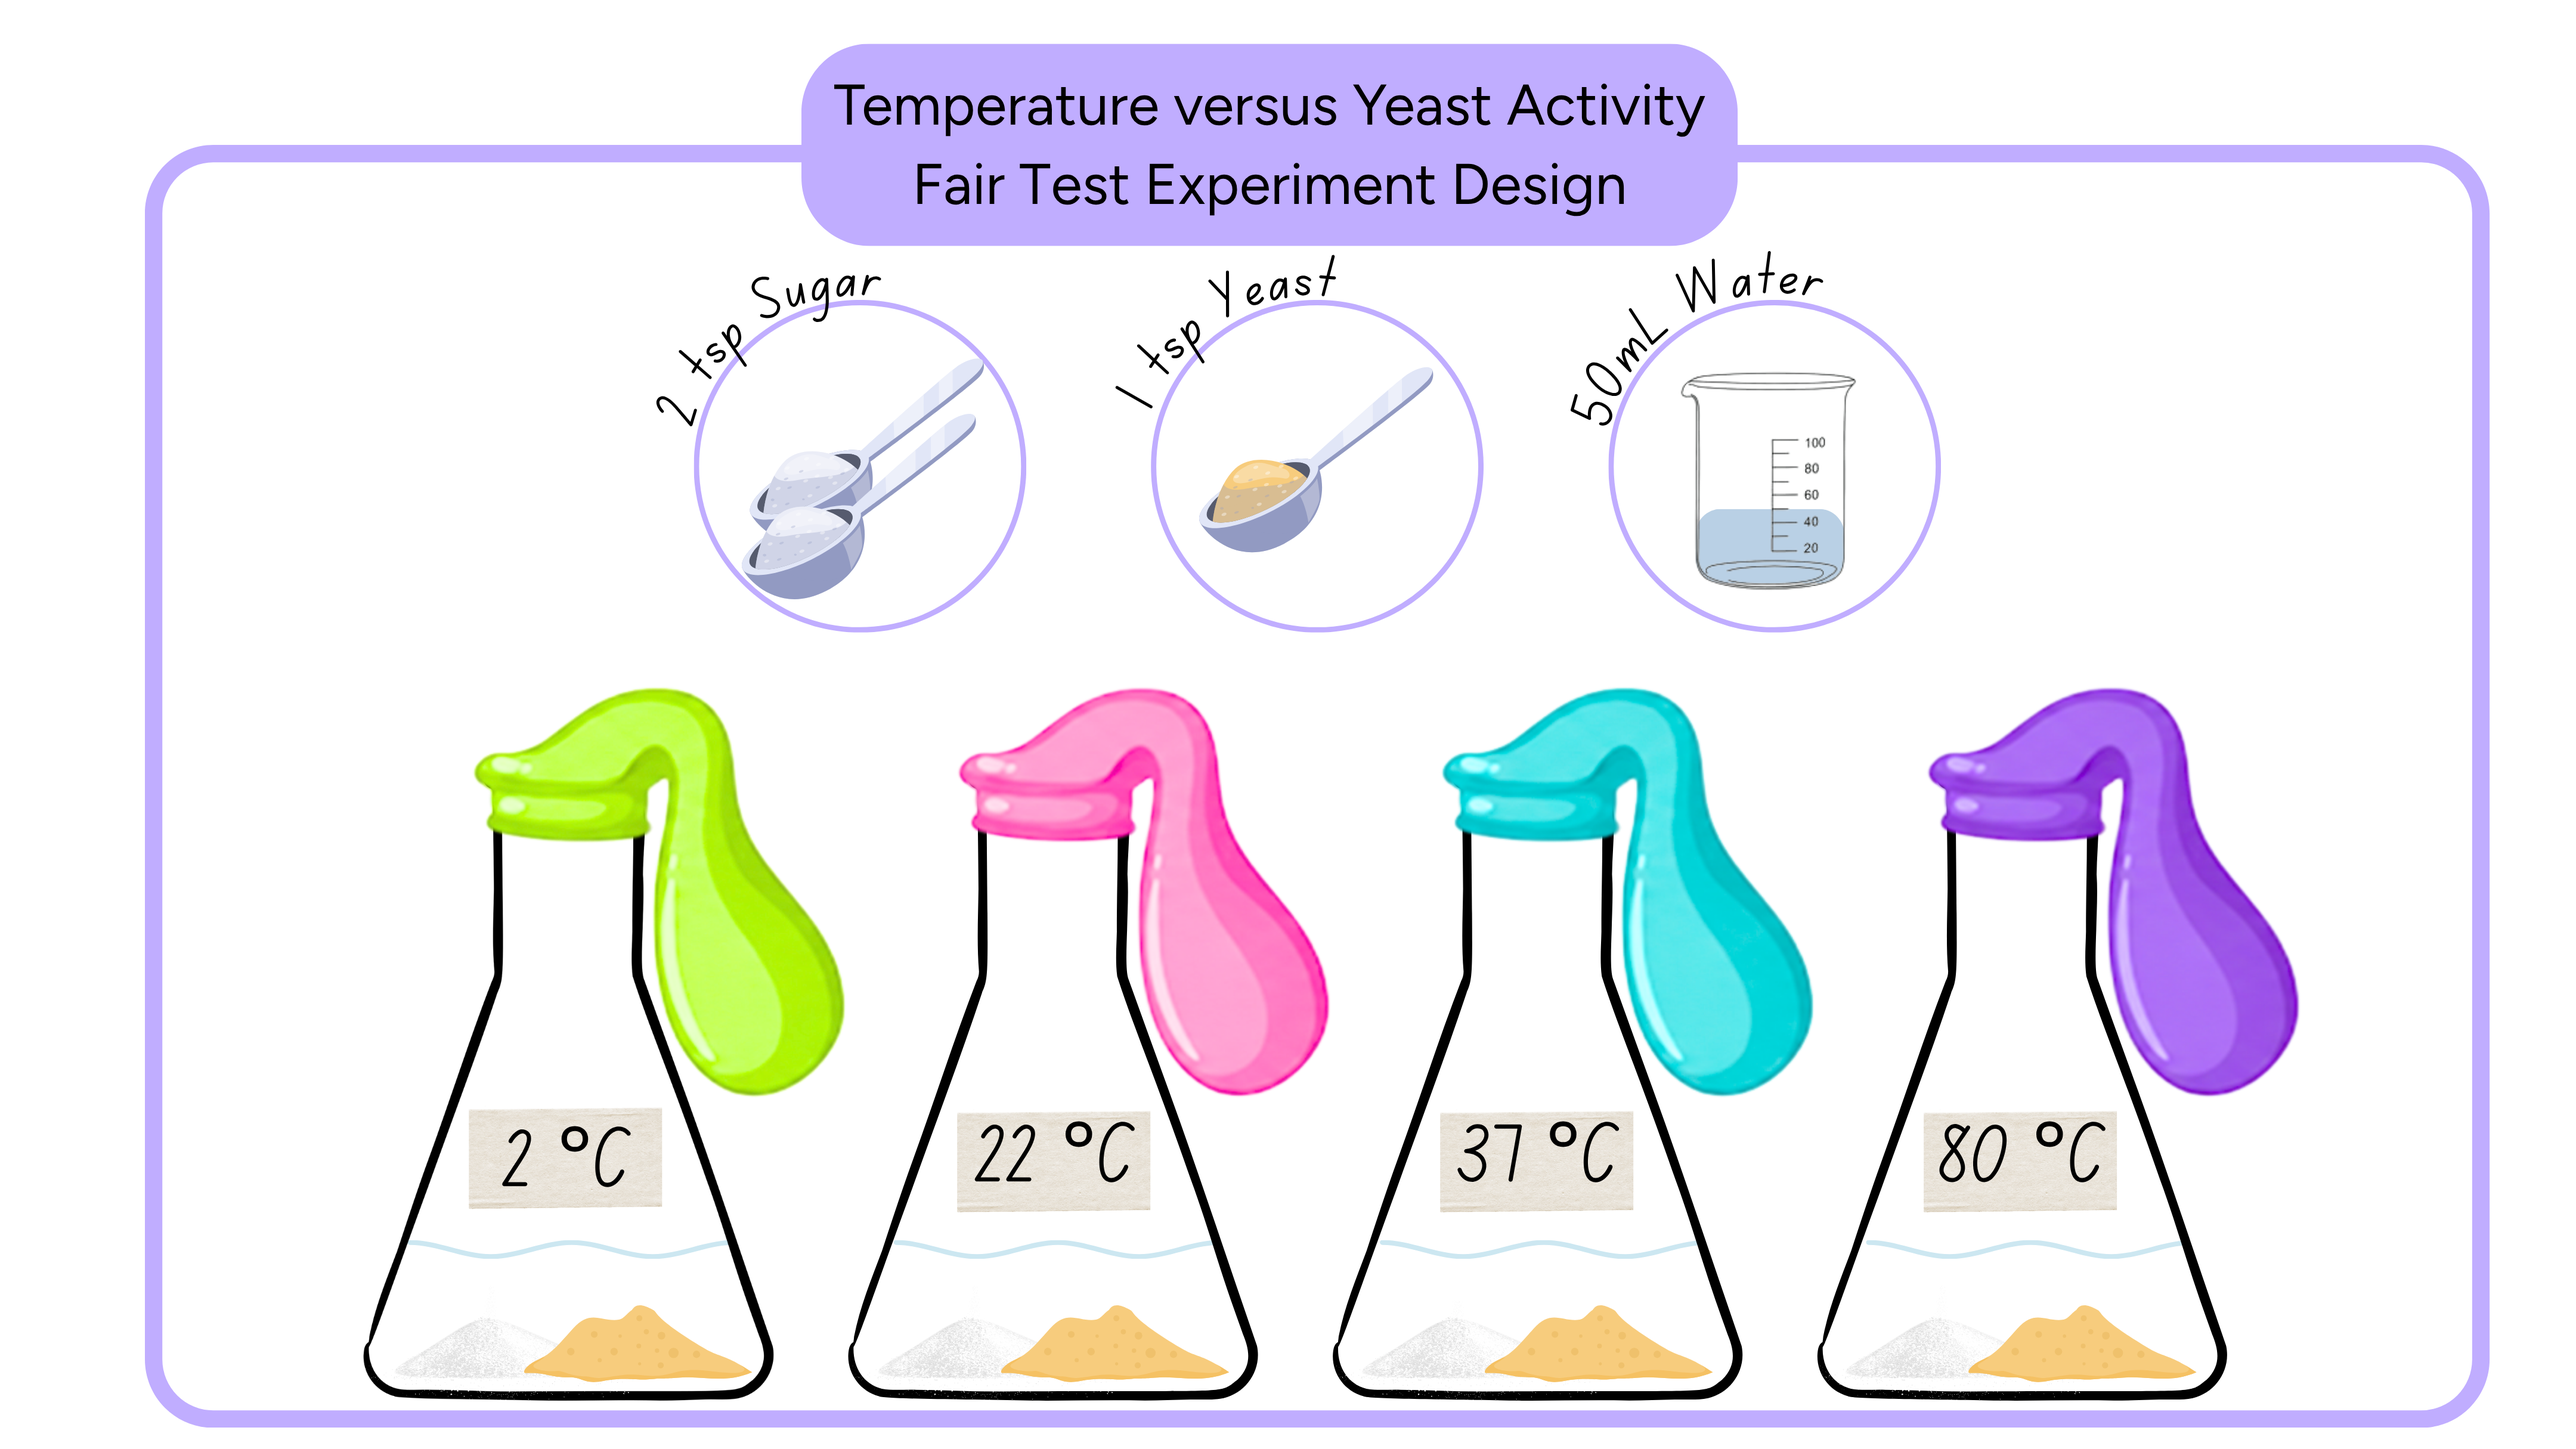
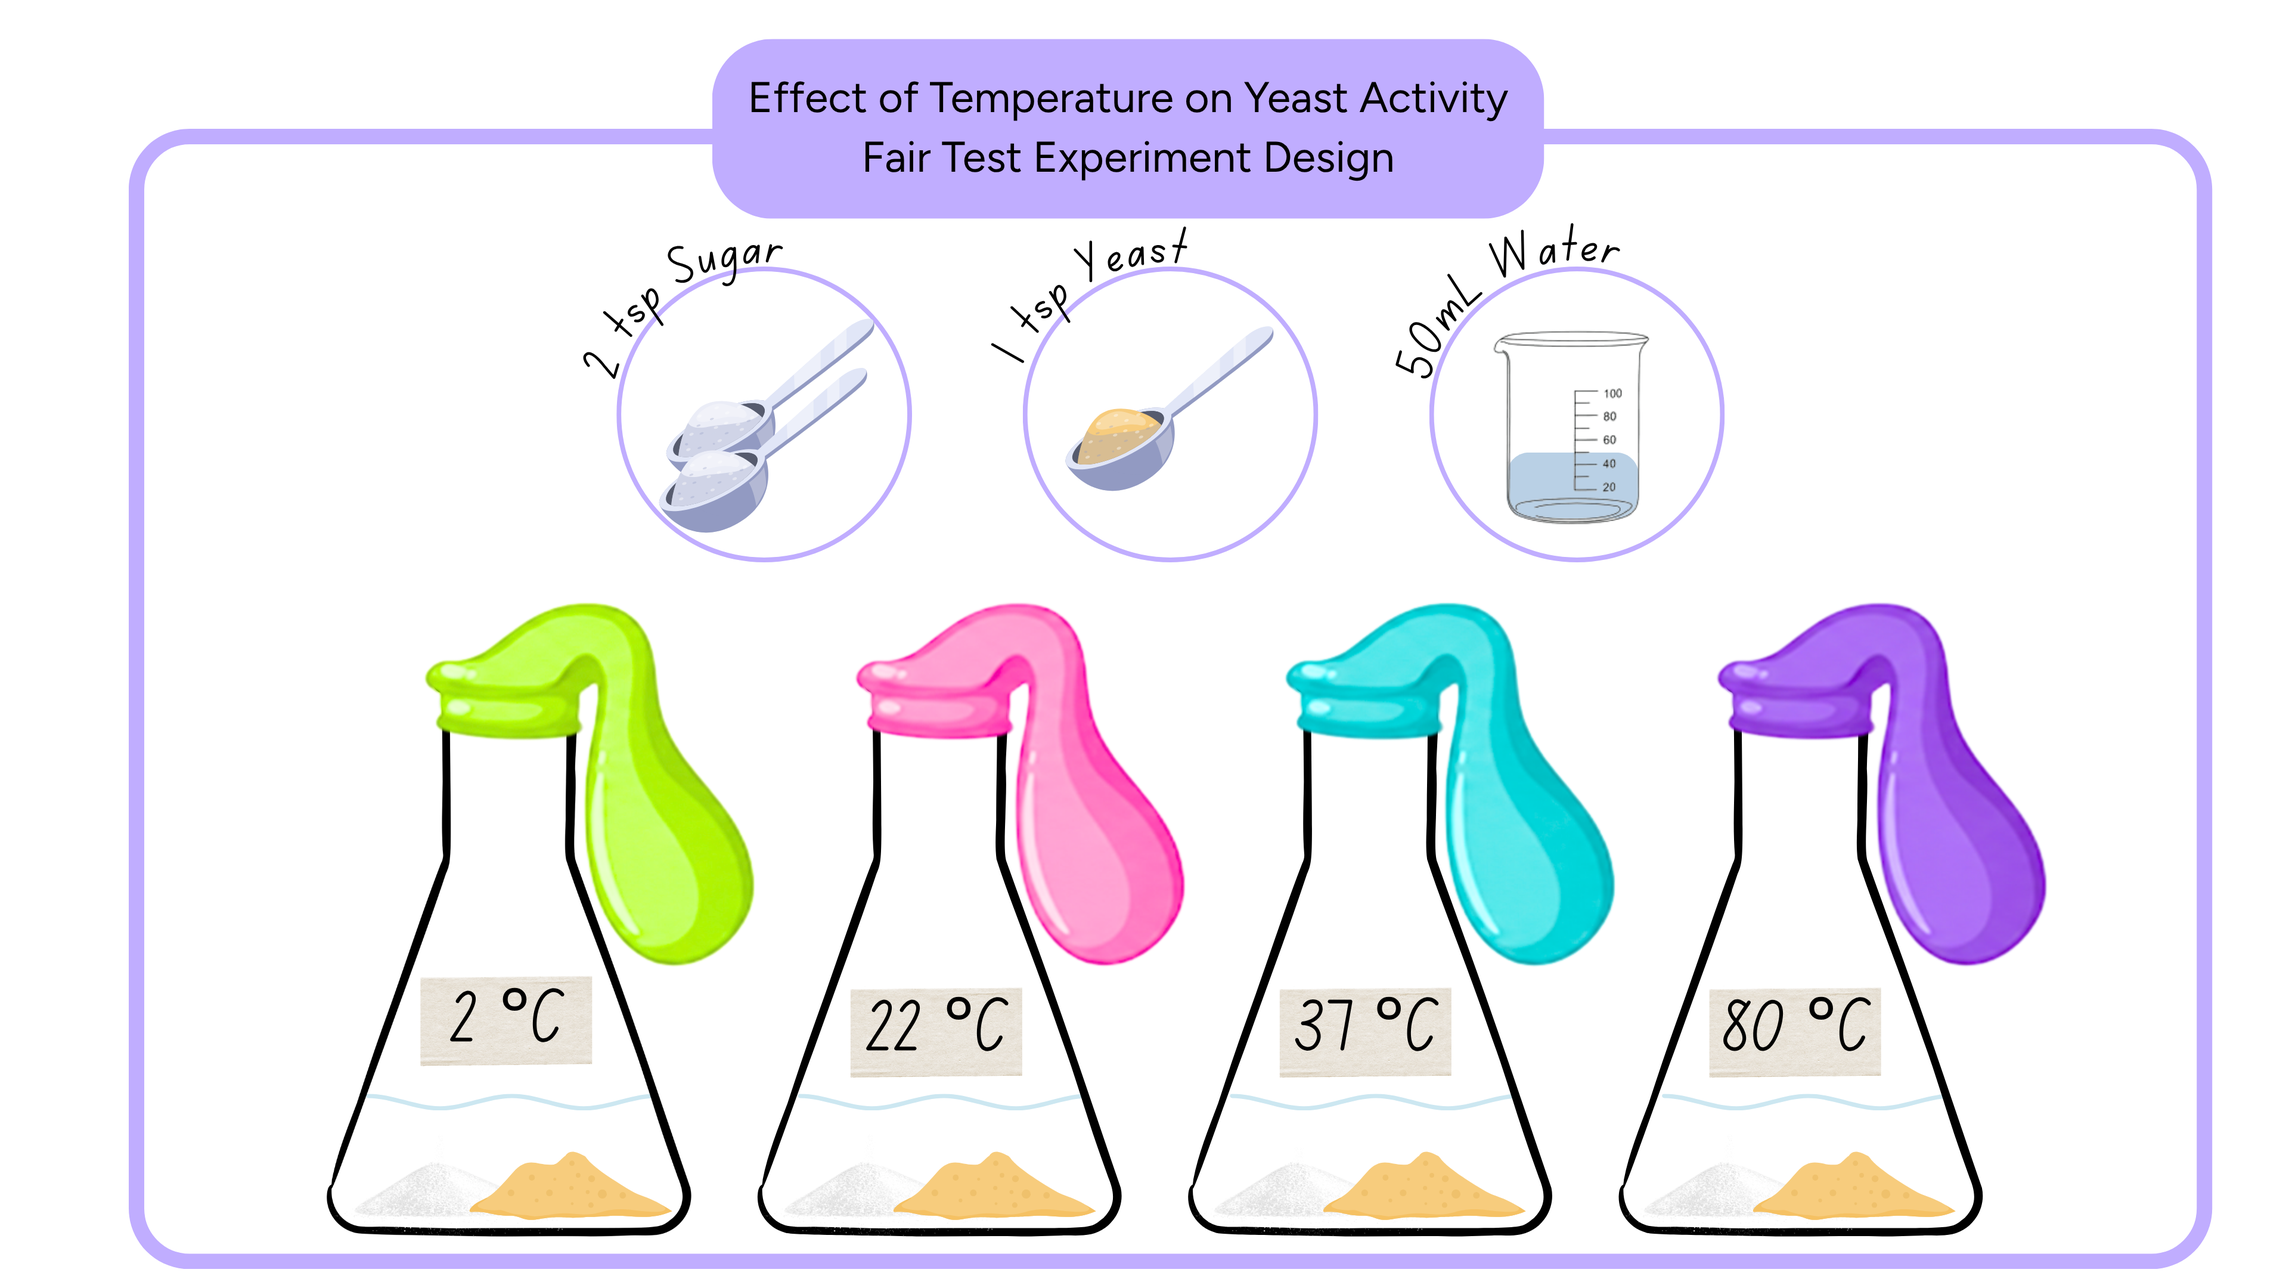
Updates to lesson 3

Changed region(s): [[0.125, 0.4653, 0.9062, 0.9926], [0.3125, 0.062, 0.6562, 0.1551]]

diff --git a/lesson3/lesson3.html b/lesson3/lesson3.html
@@ -437,37 +437,28 @@
           />
         </div>
 
-        <div class="diagram-box diagram-activity">
-          <p class="activity-instruction">
-            Identify all the variables in the yeast Fair Test.
-          </p>
 
-          <div class="formula-card">
-            <div class="formula-step">
-              <div class="formula-step-number">1</div>
-              <div>
-                <strong>Click on the independent variable button.</strong>
-                <span>Then choose the thing that is being changed.</span>
-              </div>
-            </div>
+<div class="diagram-box diagram-activity">
+  <p class="activity-instruction">
+    Identify all the variables in the yeast fair test:
+  </p>
 
-            <div class="formula-step">
-              <div class="formula-step-number">2</div>
-              <div>
-                <strong>Click on the dependent variable button.</strong>
-                <span>Then choose the thing that is being measured.</span>
-              </div>
-            </div>
+  <ol style="margin: 8px 0 0; padding-left: 24px; line-height: 1.7;">
+    <li>
+      Select <strong>Independent variable</strong>,
+      then choose what is changed.
+    </li>
+    <li>
+      Select <strong>Dependent variable</strong>,
+      then choose what is measured.
+    </li>
+    <li>
+      Select <strong>Controlled variable</strong>,
+      then choose everything kept the same.
+    </li>
+  </ol>
+</div>
 
-            <div class="formula-step">
-              <div class="formula-step-number">3</div>
-              <div>
-                <strong>Click on the controlled variable button.</strong>
-                <span>Then choose all the things you must keep the same.</span>
-              </div>
-            </div>
-          </div>
-        </div>
 
         <div
           class="variable-activity"
@@ -989,9 +980,6 @@
                 <strong>
                   Compare Test 1, Test 2, and Test 3 at 80°C. Which result is different from the others?
                 </strong>
-              </p>
-              <p>
-                Why is it important to repeat each test 3 times?
               </p>
             </div>
             <div class="stop-and-check-answer" data-button-reveal hidden>

diff --git a/styles/lesson3_styles/lesson3.css b/styles/lesson3_styles/lesson3.css
@@ -2699,3 +2699,50 @@
   transform: translateY(3px);
   animation: predictionCheckBuzz 0.2s ease;
 }
+
+
+
+/* ==================================================
+   COMPACT REFERENCE CARDS
+   Independent Variable / Dependent Variable / Units
+   ================================================== */
+
+/* Make all three cards shorter */
+#data-table-template .table-key-card {
+  min-height: 0;
+  padding: 14px 16px;
+  gap: 8px;
+}
+
+/* Place the two Units buttons side by side */
+#data-table-template .table-key-card.key-units {
+  display: grid;
+  grid-template-columns: repeat(2, minmax(0, 1fr));
+  align-content: start;
+  justify-items: center;
+  gap: 8px;
+}
+
+/* Keep the heading and description full width */
+#data-table-template .key-units > h3,
+#data-table-template .key-units > p {
+  grid-column: 1 / -1;
+}
+
+/* Make both Units buttons fit neatly */
+#data-table-template .key-units > button {
+  width: 100%;
+  min-width: 0;
+  margin: 0;
+  padding: 8px;
+  box-sizing: border-box;
+  font-size: 0.85rem;
+  white-space: normal;
+}
+
+/* Stack buttons only on very narrow screens */
+@media (max-width: 480px) {
+  #data-table-template .table-key-card.key-units {
+    grid-template-columns: 1fr;
+  }
+}
